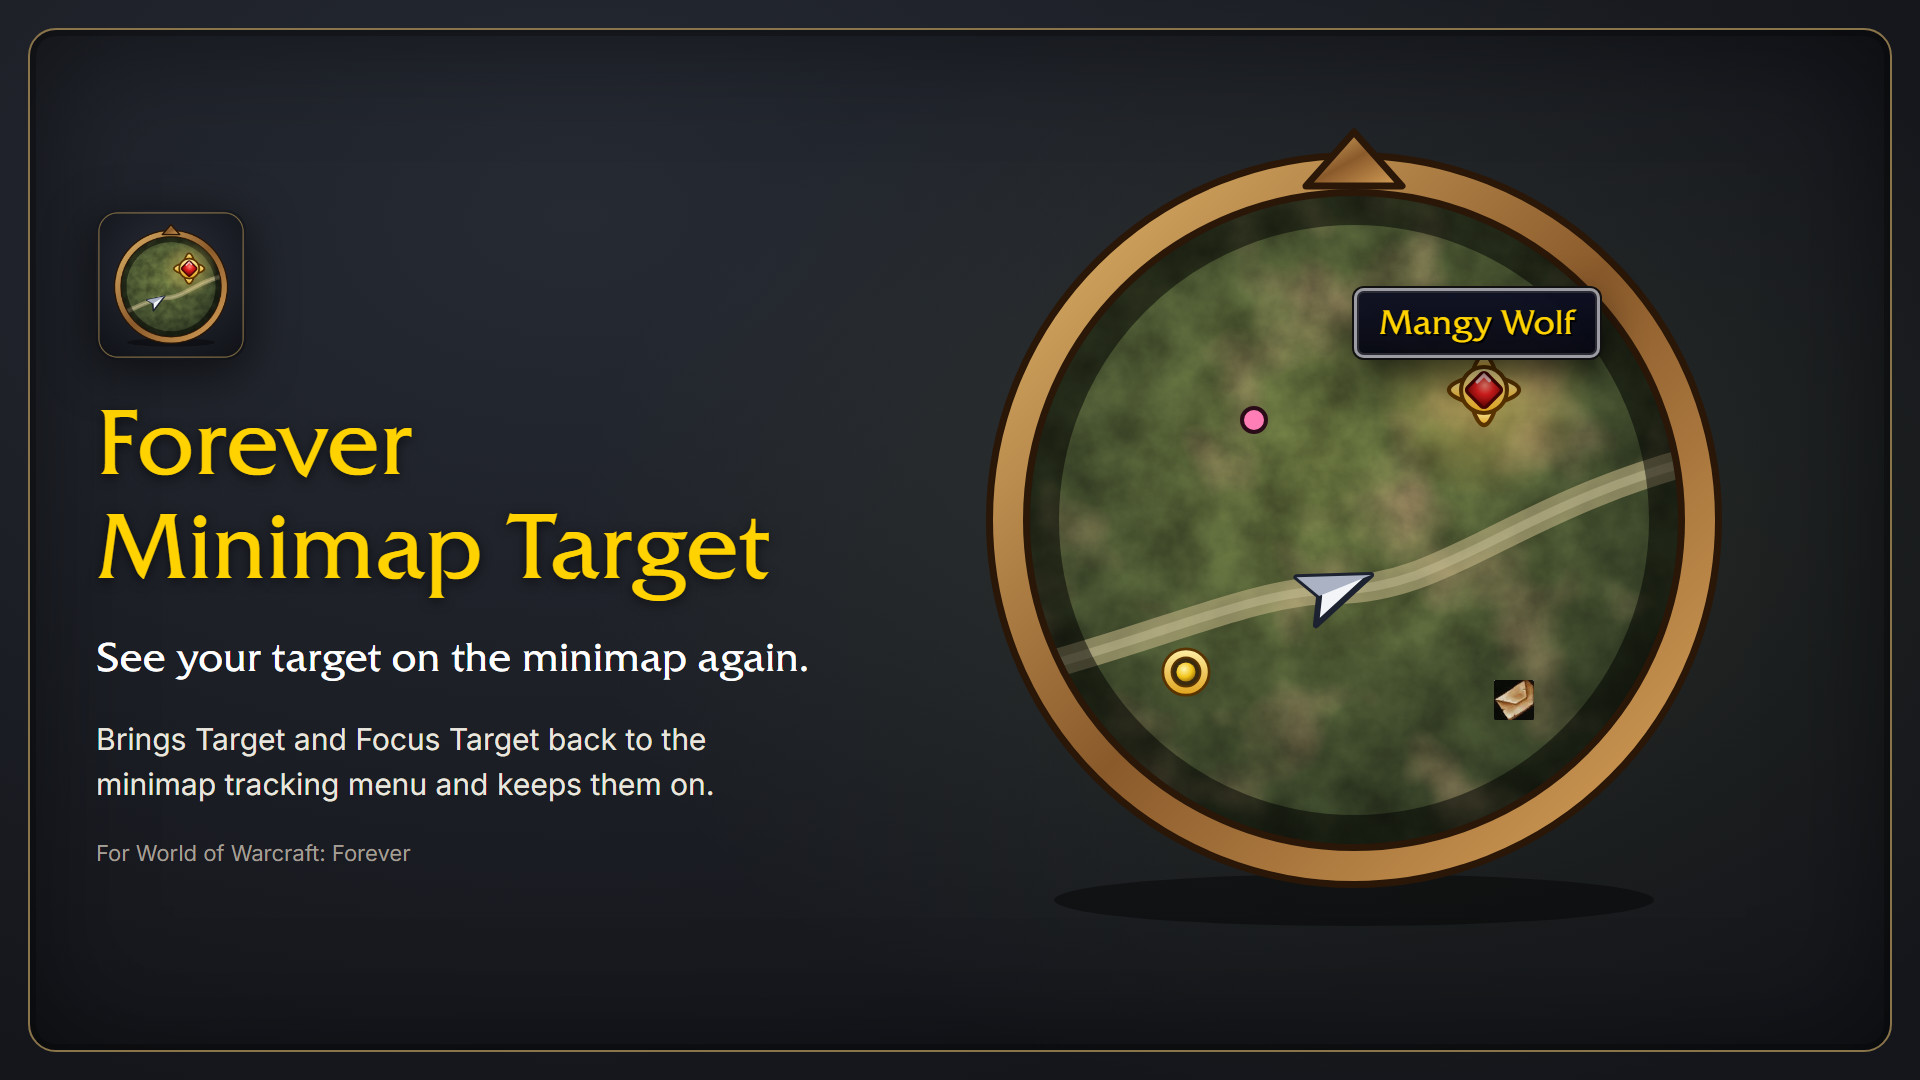
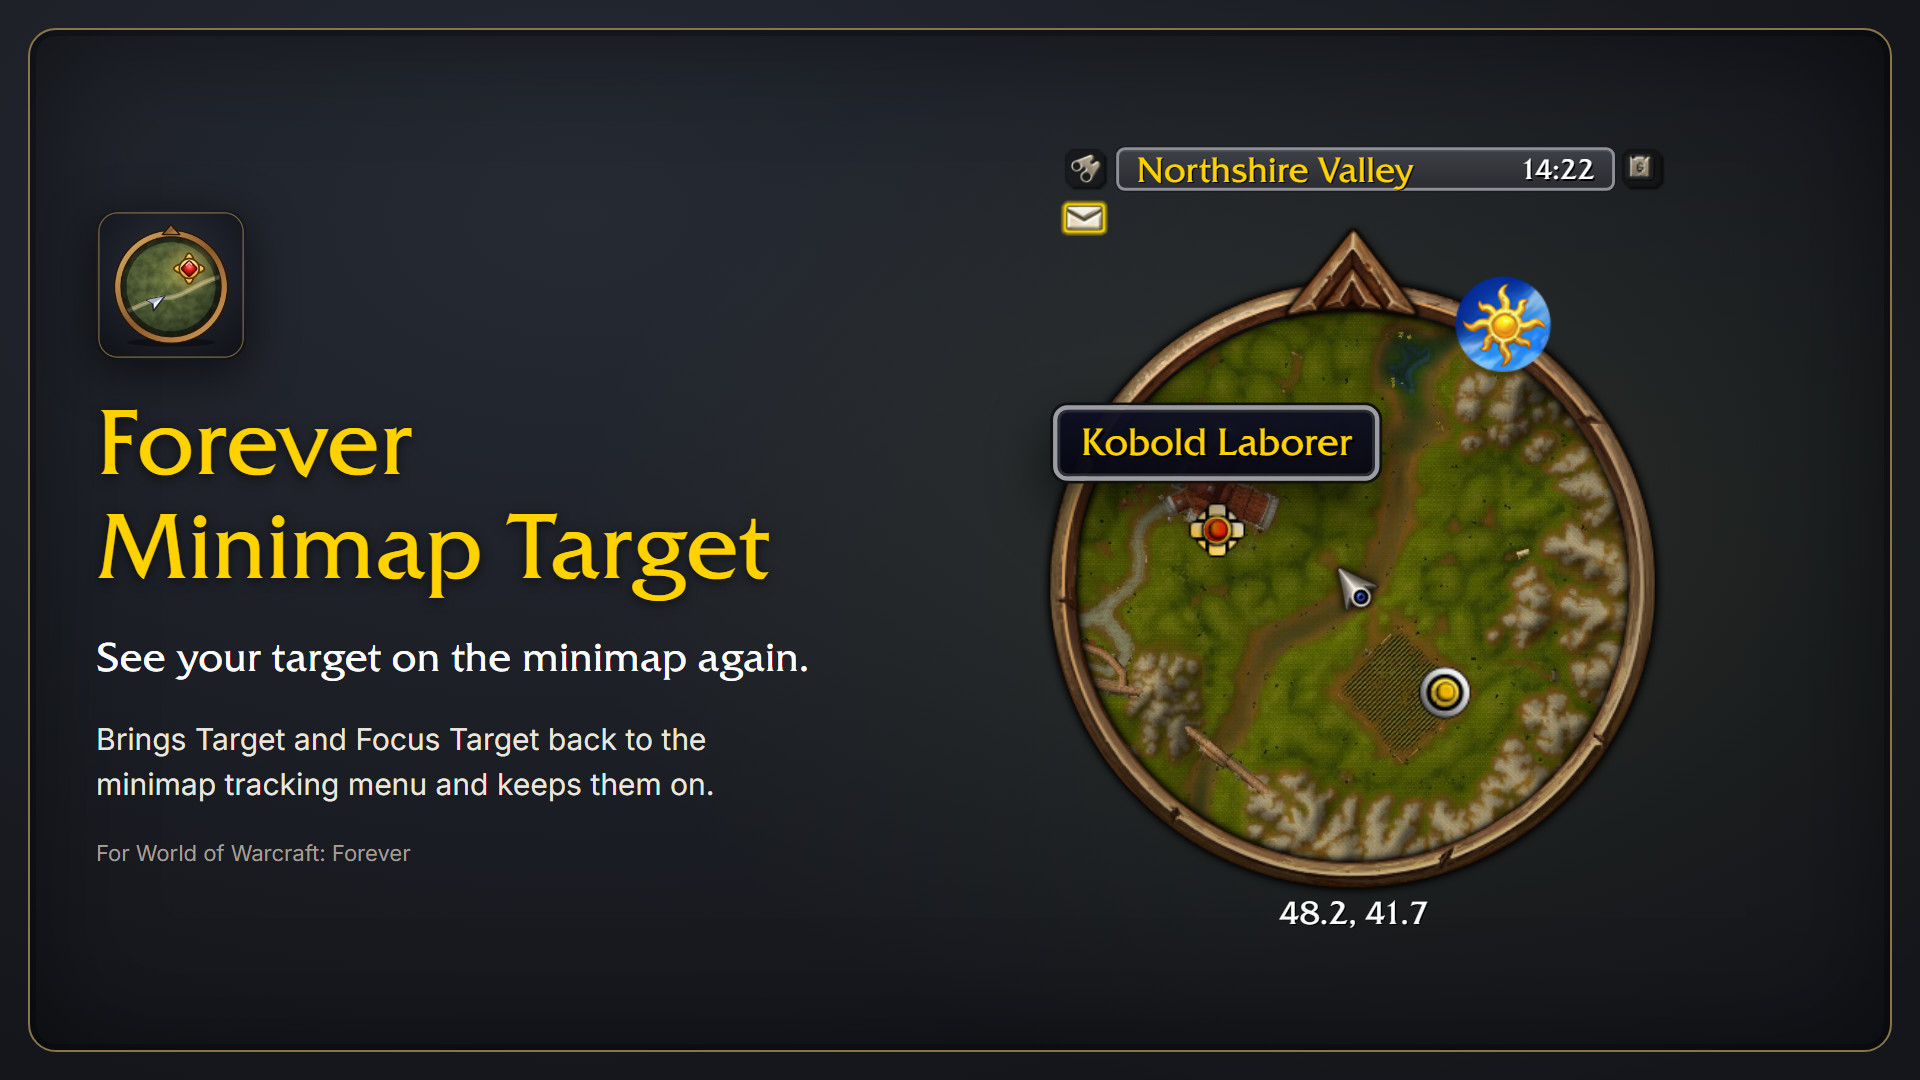
docs: rebuild the overview image from real Forever minimap textures

Changed region(s): [[0.5, 0.1222, 0.9062, 0.8556]]

diff --git a/media/gallery/reddit.html b/media/gallery/reddit.html
@@ -1,0 +1,107 @@
+<!doctype html>
+<html lang="en">
+<head>
+<meta charset="utf-8">
+<title>Forever Minimap Target – Reddit before/after</title>
+<link rel="stylesheet" href="https://fonts.googleapis.com/css2?family=Inter:wght@400;600;800&display=block">
+<link rel="stylesheet" href="style.css">
+<style>
+  /* Before/after image for the Reddit post, same layout as the Forever Loot Sparkles one.
+     Minimap built from the real Forever textures in assets/ (fetch-assets.py). */
+  body { background: #0f1218; }
+  .head {
+    position: absolute; top: 46px; left: 0; right: 0; text-align: center;
+    font-family: "Friz", serif; font-size: 56px; color: #fff; text-shadow: 0 3px 10px #000;
+  }
+  .head small { display: block; margin-top: 8px; font-family: "Inter", sans-serif; font-size: 28px; color: var(--muted); }
+  .panel {
+    position: absolute; top: 210px; bottom: 44px; width: 896px;
+    border: 4px solid #4a4f5e; border-radius: 6px; overflow: hidden;
+    background: radial-gradient(ellipse at 40% 35%, #262a33, #14161b 75%);
+  }
+  .panel.off { left: 44px; }
+  .panel.on { right: 44px; border-color: var(--gold); }
+  .label {
+    position: absolute; top: 22px; left: 22px; z-index: 5;
+    font: 800 46px/1 "Inter", sans-serif; padding: 12px 22px 14px; border-radius: 12px;
+    background: rgba(0, 0, 0, 0.75); color: #d6d8de;
+  }
+  .on .label { color: var(--gold); }
+
+  .mm { left: 262px; top: 470px; transform: scale(1.1); }
+
+  .panel .menu {
+    position: absolute; right: 22px; top: 250px; width: 352px; z-index: 4;
+    font-size: 25px; padding: 12px 20px 16px;
+  }
+  .panel .menu .item { height: 50px; }
+  .panel .menu .label-t { flex: 1; }
+  .panel .menu .item img { width: 34px; height: 34px; }
+  .missing {
+    margin-top: 14px; padding: 12px 0 2px; text-align: center;
+    font-family: "Inter", sans-serif; font-size: 24px; color: #8d8a82; text-shadow: none;
+    border-top: 2px dashed #3b3a36;
+  }
+</style>
+</head>
+<body>
+<div class="head">Forever Minimap Target<small>Target &amp; Focus Target back in the minimap tracking menu · kept on after relog</small></div>
+
+<template id="minimap">
+  <div class="mm">
+    <div class="map"></div>
+    <img class="frame-tex" src="assets/minimap-frame.png" alt="">
+    <img class="day" src="assets/minimap-day.png" alt="">
+    <div class="zone"><b>Northshire Valley</b><span>14:22</span></div>
+    <div class="btn tracking"><img src="assets/tracking.png" alt=""></div>
+    <div class="btn calendar"><img src="assets/calendar.png" alt=""></div>
+    <img class="mail" src="assets/mail.png" alt="">
+    <div class="coords">48.2, 41.7</div>
+  </div>
+</template>
+
+<div class="panel off">
+  <div class="label">Off</div>
+  <div class="slot"></div>
+  <div class="menu">
+    <div class="item"><span class="box on"></span><span class="label-t">Mailbox</span><img src="assets/menu-mailbox.png" alt=""></div>
+    <div class="item"><span class="box"></span><span class="label-t">Repair</span><img src="assets/menu-repair.png" alt=""></div>
+    <div class="item"><span class="box on"></span><span class="label-t">Find Herbs</span><img src="icons/inv_misc_flower_02.jpg" alt=""></div>
+    <div class="item"><span class="box on"></span><span class="label-t">Flight Master</span><img src="assets/menu-flightmaster.png" alt=""></div>
+    <div class="missing">no Target, no Focus</div>
+  </div>
+</div>
+
+<div class="panel on">
+  <div class="label">On</div>
+  <div class="slot">
+    <div class="blip hostile" style="left: -95px; top: -40px;"><img src="assets/blip-target.png" alt=""></div>
+    <div class="tip" style="left: -95px; top: -74px;">Kobold Laborer</div>
+    <div class="blip" style="left: 62px; top: 72px;"><img src="assets/blip-focus.png" alt=""></div>
+  </div>
+  <div class="menu">
+    <div class="item"><span class="box on"></span><span class="label-t">Mailbox</span><img src="assets/menu-mailbox.png" alt=""></div>
+    <div class="item"><span class="box"></span><span class="label-t">Repair</span><img src="assets/menu-repair.png" alt=""></div>
+    <div class="item"><span class="box on"></span><span class="label-t">Find Herbs</span><img src="icons/inv_misc_flower_02.jpg" alt=""></div>
+    <div class="item"><span class="box on"></span><span class="label-t">Flight Master</span><img src="assets/menu-flightmaster.png" alt=""></div>
+    <div class="divider"></div>
+    <div class="new">
+      <div class="item"><span class="box on"></span><span class="label-t">Target</span><img class="marker" src="assets/menu-target.png" alt=""></div>
+      <div class="item"><span class="box on"></span><span class="label-t">Focus Target</span><img class="marker" src="assets/menu-focus.png" alt=""></div>
+    </div>
+  </div>
+</div>
+
+<script>
+  // Same minimap in both panels; blips from a panel's slot go on the map below the frame, tooltips on top
+  for (const slot of document.querySelectorAll(".slot")) {
+    const mm = document.getElementById("minimap").content.firstElementChild.cloneNode(true);
+    const player = Object.assign(document.createElement("img"), { className: "player", src: "assets/arrow-player.png", alt: "" });
+    const tips = [...slot.querySelectorAll(".tip")];
+    mm.querySelector(".frame-tex").before(...slot.querySelectorAll(".blip"), player);
+    mm.append(...tips);
+    slot.replaceWith(mm);
+  }
+</script>
+</body>
+</html>

diff --git a/media/gallery/style.css b/media/gallery/style.css
@@ -117,3 +117,44 @@ body {
   box-shadow: inset 0 0 0 2px #2b2b33, 0 0 0 2px #111, 0 16px 40px rgba(0, 0, 0, 0.7);
   text-shadow: 2px 2px 0 rgba(0, 0, 0, 0.85);
 }
+
+/* Minimap rebuilt from the real Forever textures in assets/ (fetch-assets.py), laid out after an in-game
+   screenshot (scale 1.32). .mm is the ring center, every part is placed relative to it. */
+.mm { position: absolute; width: 0; height: 0; }
+.mm > * { position: absolute; transform: translate(-50%, -50%); }
+.mm .map {
+  left: 0; top: 2px; width: 386px; height: 386px; border-radius: 50%;
+  background: url("assets/terrain.jpg") no-repeat;
+  /* terrain is 1024 px for two tiles; scale --s, the player stands at terrain (--px, --py) */
+  --s: 0.85; --px: 795px; --py: 432px;
+  background-size: calc(1024px * var(--s));
+  background-position: calc(193px - var(--px) * var(--s)) calc(193px - var(--py) * var(--s));
+  box-shadow: inset 0 0 18px rgba(0, 0, 0, 0.45);
+}
+.mm .frame-tex { left: 0; top: 0; width: 507px; height: 507px; margin: -2px 0 0 -1px; }
+.mm .day { left: 103px; top: -182px; width: 66px; height: 66px; }
+.mm .player { left: 0; top: 0; width: 40px; height: 40px; transform: translate(-50%, -50%) rotate(-38deg); }
+.mm .blip { width: 40px; height: 40px; }
+.mm .blip img { width: 100%; height: 100%; display: block; }
+/* The game tints the center of the target blip by reaction; red = hostile, as in the screenshot */
+.mm .blip.hostile::after {
+  content: ""; position: absolute; inset: 31%; border-radius: 50%;
+  background: radial-gradient(circle at 40% 35%, #ffb0a0, #ff2a1a 55%, #8a0000 100%); mix-blend-mode: multiply;
+}
+.mm .zone {
+  left: 8px; top: -289px; width: 344px; height: 30px; padding: 0 12px;
+  display: flex; align-items: center; justify-content: space-between;
+  background: linear-gradient(180deg, #3d4046, #2a2c31); border: 2px solid #8d9096; border-radius: 6px;
+  box-shadow: 0 0 0 1px #1a1b1e, inset 0 1px 0 rgba(255, 255, 255, 0.12);
+  font-family: "Friz", serif; text-shadow: 1px 1px 0 #000;
+}
+.mm .zone b { font-weight: normal; font-size: 24px; color: var(--gold); }
+.mm .zone span { font-size: 19px; color: #fff; }
+.mm .btn { width: 32px; height: 31px; display: grid; place-items: center; background: url("assets/button.png") center / 100% 100%; }
+.mm .btn img { width: 22px; }
+.mm .tracking { left: -185px; top: -289px; }
+.mm .calendar { left: 199px; top: -289px; }
+.mm .calendar img { width: 24px; }
+.mm .mail { left: -186px; top: -255px; width: 34px; }
+.mm .coords { left: 0; top: 224px; font-family: "Friz", serif; font-size: 22px; color: #fff; text-shadow: 1px 1px 0 #000; white-space: nowrap; }
+.mm .tip { transform: translate(-50%, -100%); font-size: 26px; padding: 6px 16px 8px; }

diff --git a/media/gallery/01-overview.html b/media/gallery/01-overview.html
@@ -17,9 +17,19 @@
   <p class="note">For World of Warcraft: Forever</p>
 </div>
 <div class="stage">
-  <div style="position: relative; width: 800px; height: 840px;">
-    <object data="minimap.svg" type="image/svg+xml" style="width: 800px; height: 840px;"></object>
-    <div class="tip" style="left: 400px; top: 168px;">Mangy Wolf</div>
+  <div class="mm" style="left: 494px; top: 588px; transform: scale(1.45);">
+    <div class="map"></div>
+    <div class="blip hostile" style="left: -95px; top: -40px;"><img src="assets/blip-target.png" alt=""></div>
+    <div class="blip" style="left: 62px; top: 72px;"><img src="assets/blip-focus.png" alt=""></div>
+    <img class="player" src="assets/arrow-player.png" alt="">
+    <img class="frame-tex" src="assets/minimap-frame.png" alt="">
+    <img class="day" src="assets/minimap-day.png" alt="">
+    <div class="zone"><b>Northshire Valley</b><span>14:22</span></div>
+    <div class="btn tracking"><img src="assets/tracking.png" alt=""></div>
+    <div class="btn calendar"><img src="assets/calendar.png" alt=""></div>
+    <img class="mail" src="assets/mail.png" alt="">
+    <div class="coords">48.2, 41.7</div>
+    <div class="tip" style="left: -95px; top: -74px;">Kobold Laborer</div>
   </div>
 </div>
 </body>

diff --git a/media/gallery/fetch-assets.py b/media/gallery/fetch-assets.py
@@ -1,0 +1,84 @@
+"""Fetches the WoW: Forever minimap textures used by reddit.html into assets/ (git-ignored, Blizzard assets).
+
+Source is wago.tools (CASC files of the Forever build, product wow_cn_beta, Interface 16001). Atlas coordinates
+come from the UiTextureAtlasMember table of the same build. Needs Pillow.
+"""
+import io
+import os
+import struct
+import urllib.request
+
+from PIL import Image
+
+BUILD = "1.60.1.70235"
+OUT = os.path.join(os.path.dirname(os.path.abspath(__file__)), "assets")
+
+# name: (fileDataID, left, right, top, bottom)
+ATLAS = {
+    "minimap-frame": (8026708, 1, 507, 1, 507),        # ui-hud-minimap-frame-c60-2x
+    "minimap-day": (8026708, 595, 661, 509, 575),      # ui-hud-minimap-daycycle-c60-2x
+    "button": (4618666, 441, 480, 402, 440),           # ui-hud-minimap-button-2x
+    "tracking": (4618666, 149, 179, 520, 548),         # ui-hud-minimap-tracking-up-2x
+    "mail": (4618666, 42, 81, 520, 550),               # ui-hud-minimap-mail-up-2x
+    "calendar": (4618663, 93, 114, 106, 125),          # ui-hud-calendar-6-up
+    "arrow-player": (4618666, 441, 486, 238, 283),     # ui-hud-minimap-arrow-player-2x
+    "blip-target": (1121272, 549, 581, 548, 580),      # target
+    "blip-focus": (1121272, 685, 717, 412, 444),       # focus
+}
+
+# Whole textures: tracking menu icons (interface/minimap/tracking/*.blp)
+FILES = {"menu-target": 524052, "menu-focus": 524051, "menu-mailbox": 136459, "menu-repair": 136465,
+         "menu-flightmaster": 136456}
+
+# Minimap tiles around Northshire Abbey (world/minimaps/azeroth/mapX_Y.blp), stitched 2×2
+TILES = {(31, 48): 204453, (32, 48): 204493, (31, 49): 204454, (32, 49): 204494}
+
+
+def fetch(fdid):
+    # Raw files are cached in assets/cache/, the big atlases take a while to download
+    cached = os.path.join(OUT, "cache", f"{fdid}.blp")
+    if os.path.exists(cached):
+        with open(cached, "rb") as f:
+            return f.read()
+    url = f"https://wago.tools/api/casc/{fdid}?download&build={BUILD}"
+    # wago.tools rejects Python's default user agent
+    req = urllib.request.Request(url, headers={"User-Agent": "curl/8"})
+    with urllib.request.urlopen(req) as resp:
+        data = resp.read()
+    os.makedirs(os.path.dirname(cached), exist_ok=True)
+    with open(cached, "wb") as f:
+        f.write(data)
+    return data
+
+
+def load_blp(data):
+    # Pillow can't read uncompressed BLP2 (encoding 3, BGRA), which the HUD atlases use
+    if data[:4] == b"BLP2" and data[8] == 3:
+        w, h = struct.unpack_from("<II", data, 12)
+        offset = struct.unpack_from("<I", data, 20)[0]
+        return Image.frombytes("RGBA", (w, h), data[offset:offset + w * h * 4], "raw", "BGRA")
+    return Image.open(io.BytesIO(data)).convert("RGBA")
+
+
+def main():
+    os.makedirs(OUT, exist_ok=True)
+    sheets = {}
+    for name, (fdid, left, right, top, bottom) in ATLAS.items():
+        if fdid not in sheets:
+            sheets[fdid] = load_blp(fetch(fdid))
+        sheets[fdid].crop((left, top, right, bottom)).save(os.path.join(OUT, name + ".png"))
+        print(name)
+    for name, fdid in FILES.items():
+        load_blp(fetch(fdid)).save(os.path.join(OUT, name + ".png"))
+        print(name)
+    tiles = {pos: load_blp(fetch(fdid)) for pos, fdid in TILES.items()}
+    size = next(iter(tiles.values())).width
+    terrain = Image.new("RGB", (size * 2, size * 2))
+    for (x, y), tile in tiles.items():
+        terrain.paste(tile.convert("RGB"), ((x - 31) * size, (y - 48) * size))
+    terrain.save(os.path.join(OUT, "terrain.jpg"), quality=92)
+    print("terrain")
+
+
+if __name__ == "__main__":
+    main()

diff --git a/media/gallery/README.md b/media/gallery/README.md
@@ -14,3 +14,10 @@ Not in the repo (Blizzard assets, git-ignored), fetch them before rendering:
 - `fonts/FRIZQT__.TTF`: `curl -L -o fonts/FRIZQT__.TTF https://wago.tools/api/casc/615960`
 - `icons/<name>.jpg`: `curl -o icons/<name>.jpg https://wow.zamimg.com/images/wow/icons/large/<name>.jpg`
   for every `icons/…` referenced in the pages and in `minimap.svg`
+
+`01-overview.html` and `reddit.html` (before/after image for the Reddit post) rebuild the real WoW: Forever minimap
+from game textures (shared `.mm` styles in `style.css`). Fetch them into `assets/` (git-ignored) before rendering:
+
+```sh
+python fetch-assets.py
+```
